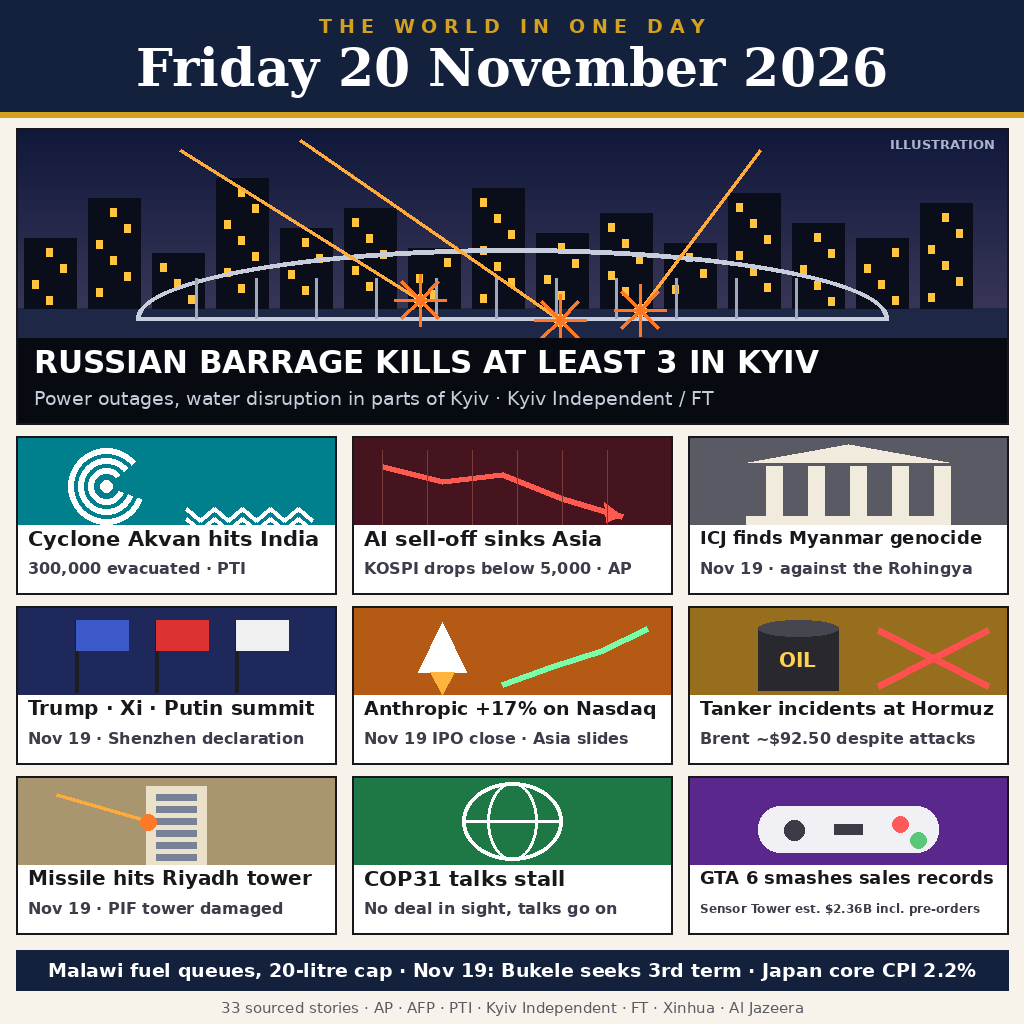
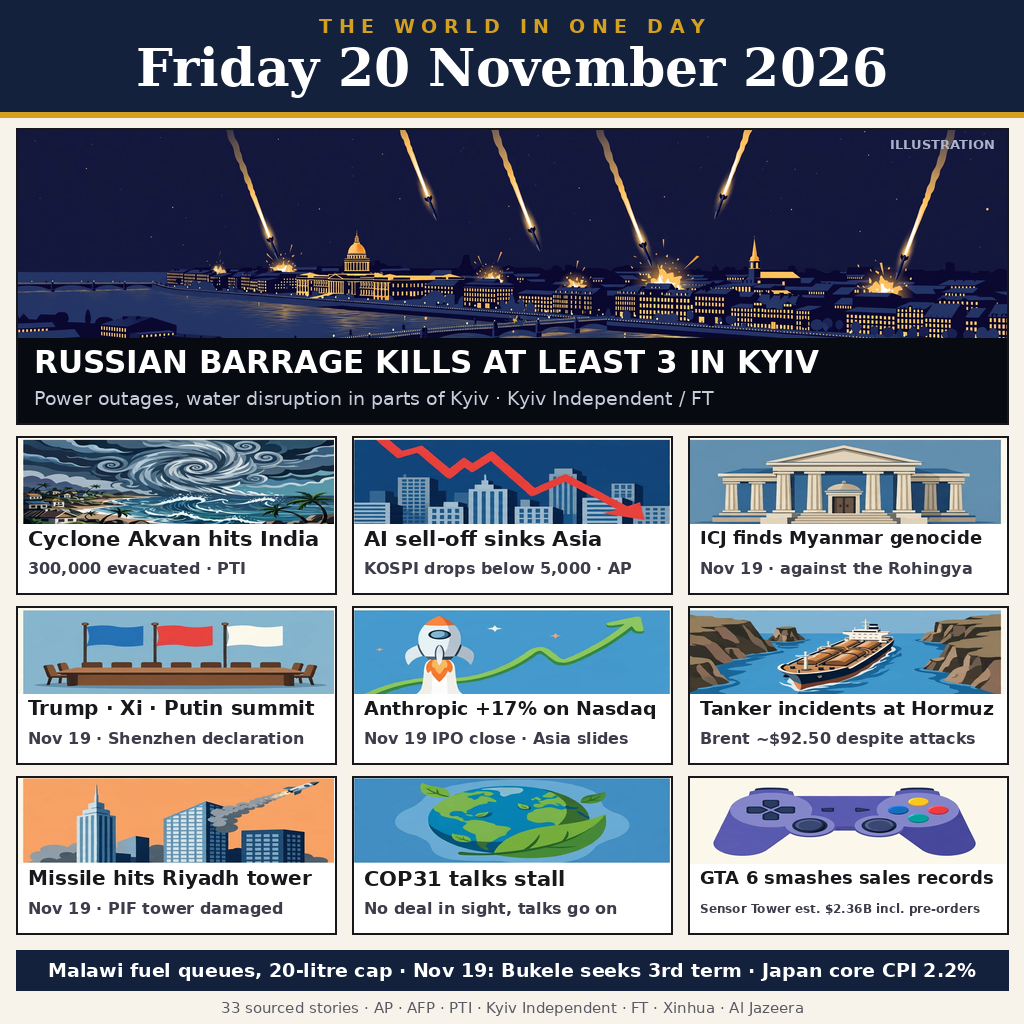
Add files via upload

diff --git a/draw.py b/draw.py
@@ -30,34 +30,14 @@ d.rectangle([0, 112, W, 117], fill=GOLD)
 
 # ---- lead panel: Kyiv ------------------------------------------------------
 lx0, ly0, lx1, ly1 = 16, 128, 1008, 424
-for i in range(60):  # night sky bands
-    t = i / 60
-    c = (int(16 + 40 * t), int(24 + 30 * t), int(58 + 30 * t))
-    d.rectangle([lx0, ly0 + i * 3, lx1, ly0 + i * 3 + 3], fill=c)
-d.rectangle([lx0, ly0 + 180, lx1, ly1], fill=(30, 40, 70))  # river
-# skyline
-heights = [70, 110, 55, 130, 80, 100, 60, 120, 75, 95, 65, 115, 85, 70, 105]
-x = lx0 + 8
-for h in heights:
-    d.rectangle([x, ly0 + 180 - h, x + 52, ly0 + 180], fill=(10, 14, 26))
-    for wy in range(ly0 + 180 - h + 10, ly0 + 170, 16):
-        for wx in range(x + 8, x + 46, 14):
-            if (wx + wy) % 3 == 0:
-                d.rectangle([wx, wy, wx + 6, wy + 8], fill=(255, 196, 64))
-    x += 64
-# bridge
-d.arc([lx0 + 120, ly0 + 120, lx1 - 120, ly0 + 260], 180, 360, fill=(200, 205, 220), width=5)
-d.line([lx0 + 120, ly0 + 190, lx1 - 120, ly0 + 190], fill=(200, 205, 220), width=4)
-for bx in range(lx0 + 180, lx1 - 160, 60):
-    d.line([bx, ly0 + 190, bx, ly0 + 150], fill=(160, 168, 190), width=3)
-# missile trails + bursts
-for (mx, my, tx, ty) in [(180, 150, 420, 300), (300, 140, 560, 320), (760, 150, 640, 310)]:
-    d.line([mx, my, tx, ty], fill=(255, 170, 60), width=3)
-    d.ellipse([tx - 6, ty - 6, tx + 6, ty + 6], fill=(255, 220, 120))
-    for a in range(0, 360, 45):
-        ex = tx + 26 * math.cos(math.radians(a))
-        ey = ty + 26 * math.sin(math.radians(a))
-        d.line([tx, ty, ex, ey], fill=(255, 120, 40), width=3)
+lead = Image.open("assets/media-generation-news-lead-kyiv-0-2288a6bf-31df-430a-91e6-1503df2bba50.webp").convert("RGB")
+lw, lh = lead.size
+target_ratio = (lx1 - lx0) / (ly1 - ly0 - 86)
+crop_h = int(lw / target_ratio)
+top = max(0, (lh - crop_h) // 2 - 40)
+lead = lead.crop((0, top, lw, top + crop_h)).resize((lx1 - lx0, ly1 - ly0 - 86), Image.LANCZOS)
+img.paste(lead, (lx0, ly0))
+d = ImageDraw.Draw(img)
 # headline band
 d.rectangle([lx0, ly1 - 86, lx1, ly1], fill=(8, 10, 18))
 d.text((lx0 + 18, ly1 - 62), "RUSSIAN BARRAGE KILLS AT LEAST 3 IN KYIV",
@@ -75,11 +55,23 @@ def fit(text, path, size, max_w):
     return F(path, size)
 
 
+GRID_IMG = Image.open("assets/media-generation-news-grid-scenes-0-65756077-79c9-409f-89c8-de4a64060295.webp").convert("RGB")
+
+
+def cell(idx):
+    gw, gh = GRID_IMG.size
+    cw, ch = gw // 3, gh // 3
+    cx, cy = (idx % 3) * cw, (idx // 3) * ch
+    m = 14
+    return GRID_IMG.crop((cx + m, cy + m, cx + cw - m, cy + ch - m))
+
+
 def panel(px, py, bg, draw_scene, head, sub):
     pw, ph = 320, 158
     d.rectangle([px, py, px + pw, py + ph], fill=(255, 255, 255), outline=INK, width=2)
-    d.rectangle([px + 2, py + 2, px + pw - 2, py + 88], fill=bg)
-    draw_scene(px, py)
+    scene = cell(panel.counter).resize((pw - 4, 86), Image.LANCZOS)
+    img.paste(scene, (px + 2, py + 2))
+    panel.counter += 1
     d.text((px + 12, py + 102), head, font=fit(head, SANSB, 21, pw - 24), fill=INK, anchor="lm")
     d.text((px + 12, py + 132), sub, font=fit(sub, SANSB, 16, pw - 24), fill=(60, 60, 75), anchor="lm")
 
@@ -172,6 +164,7 @@ grid = [
     ((30, 120, 70), sc_globe, "COP31 talks stall", "No deal in sight, talks go on"),
     ((90, 40, 140), sc_pad, "GTA 6 smashes sales records", "Sensor Tower est. $2.36B incl. pre-orders"),
 ]
+panel.counter = 0
 gx, gy = 16, 436
 for i, (bg, sc, head, sub) in enumerate(grid):
     panel(gx + (i % 3) * 336, gy + (i // 3) * 170, bg, sc, head, sub)
@@ -186,4 +179,9 @@ d.text((512, ty + 58),
        font=F(SANS, 15), fill=(90, 90, 100), anchor="mm")
 
 img.save("entry.png", optimize=True)
-print("saved entry.png", img.size)
+import os
+size = os.path.getsize("entry.png")
+if size > 1048576:  # gate cap: fall back to JPEG bytes (name stays entry.png)
+    img.save("entry.png", "JPEG", quality=86)
+    size = os.path.getsize("entry.png")
+print("saved entry.png", img.size, size, "bytes")
